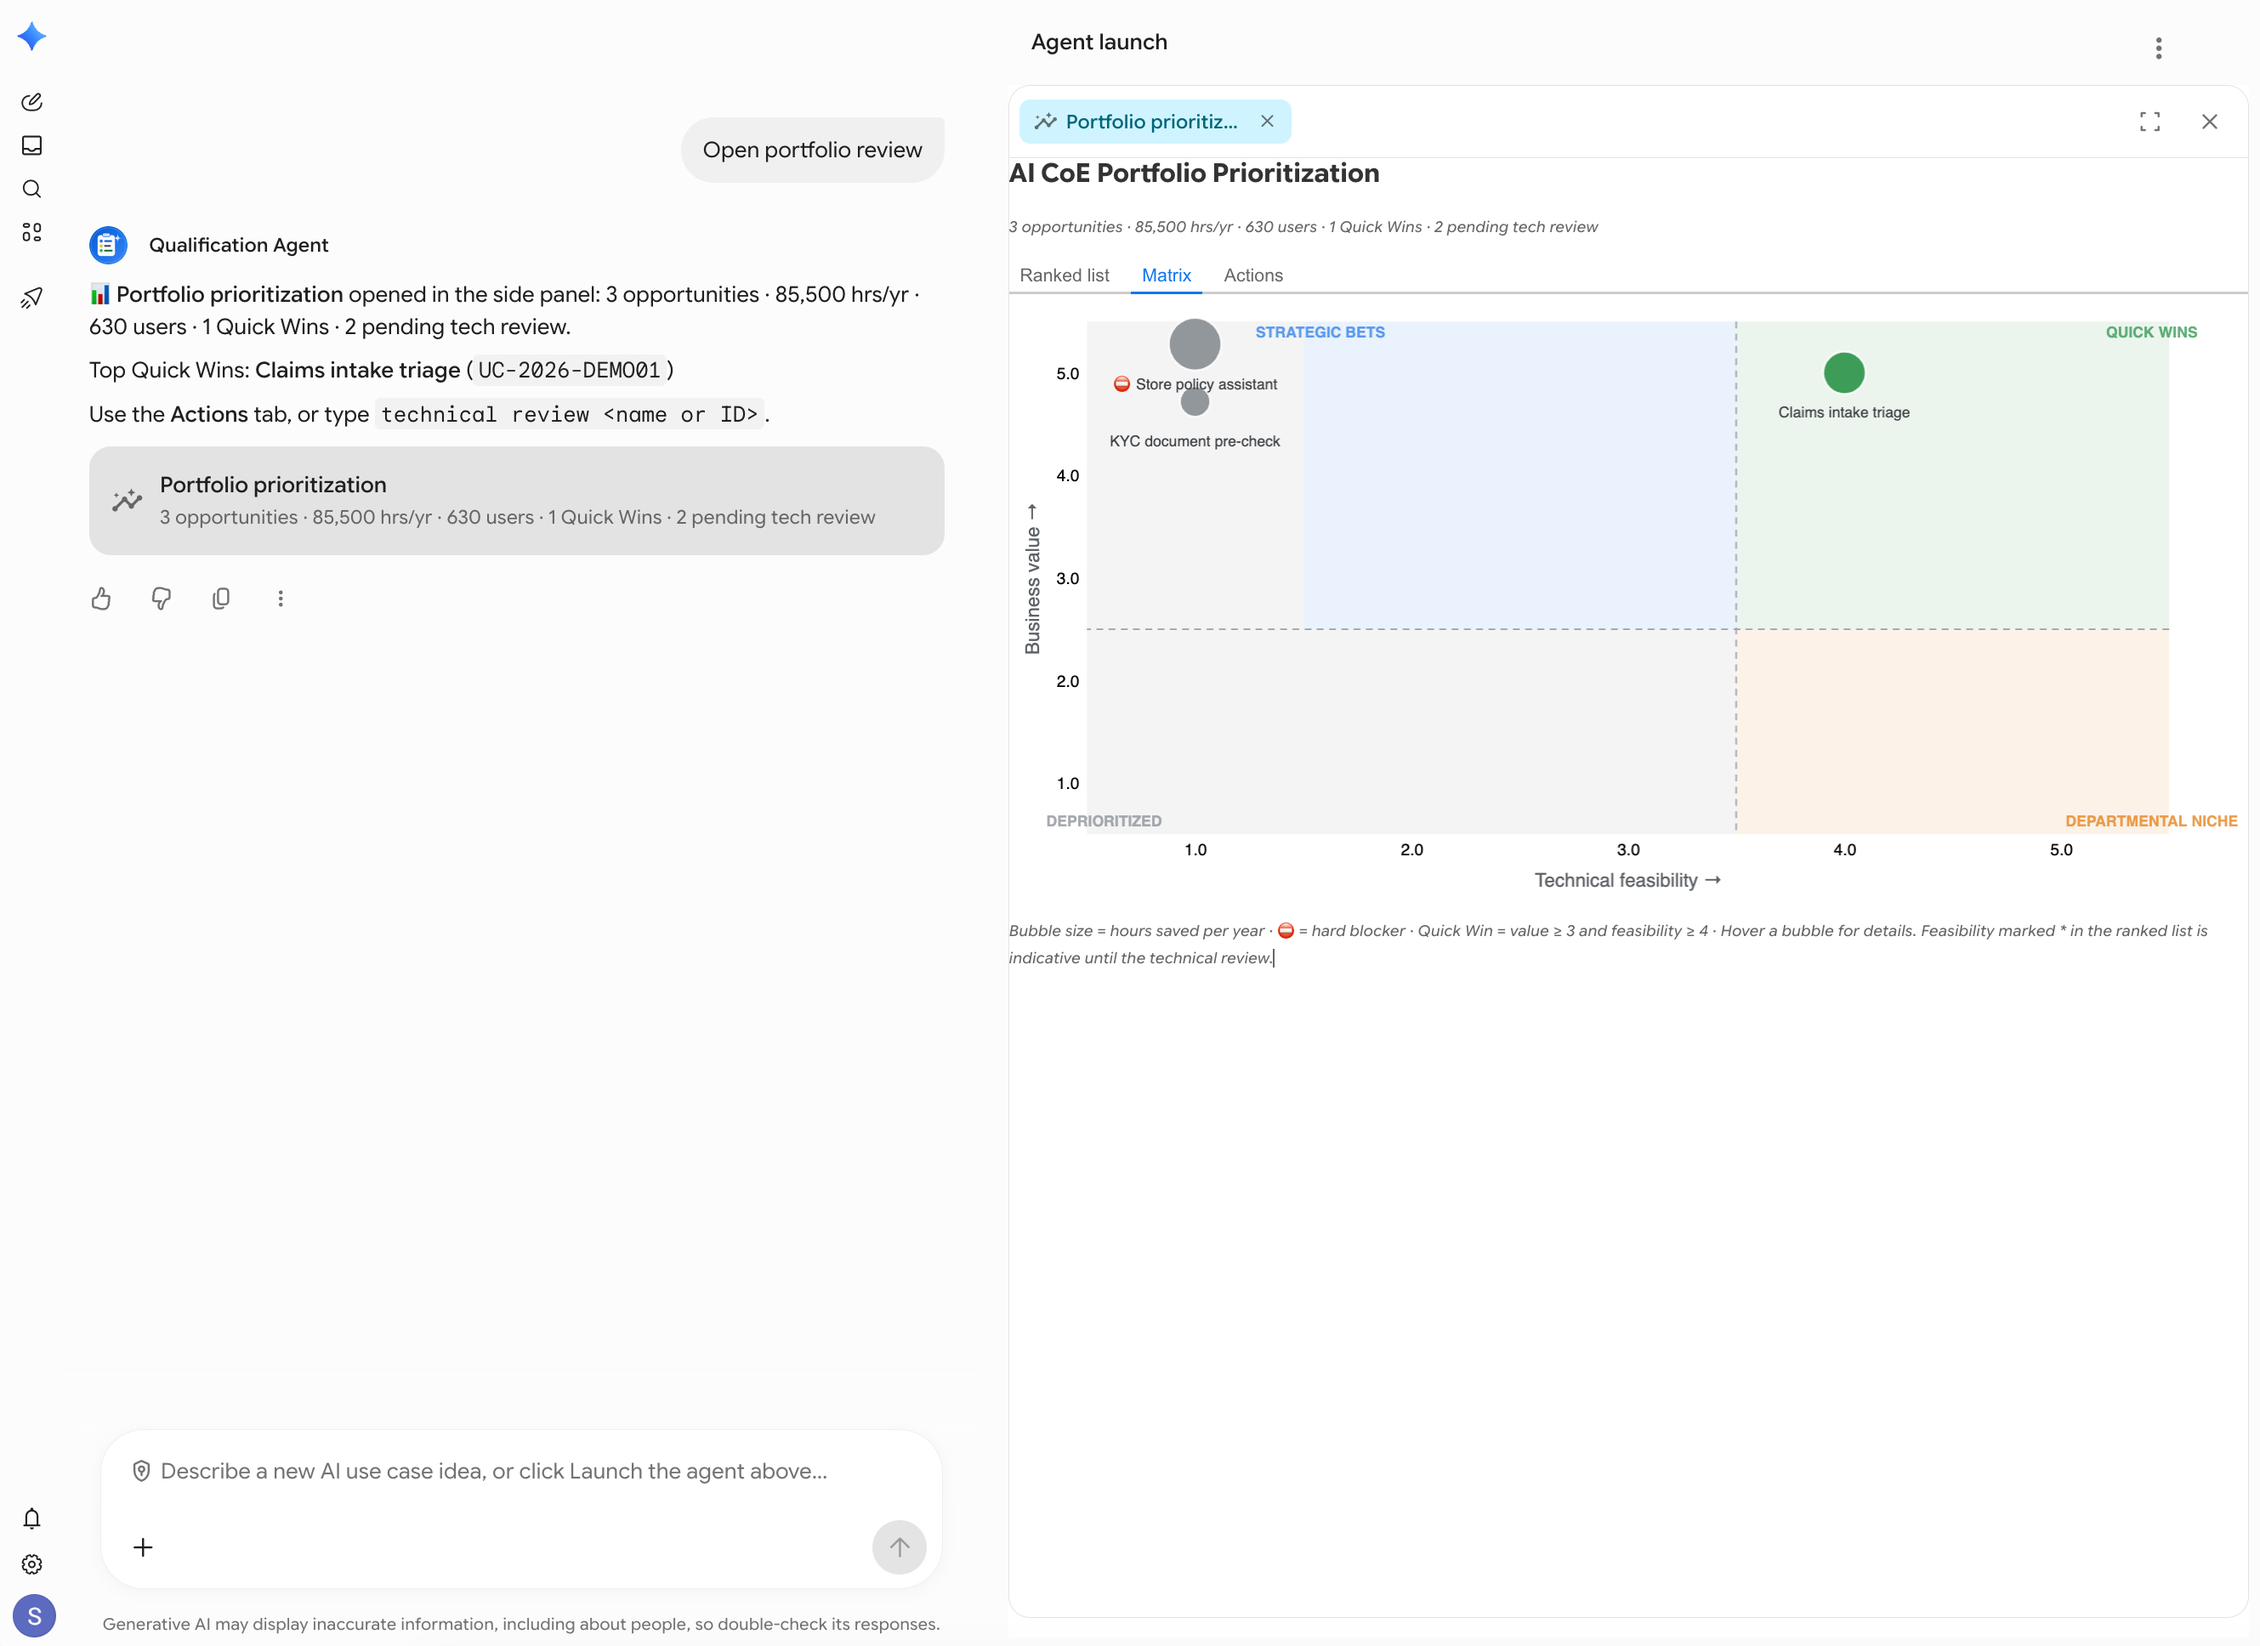
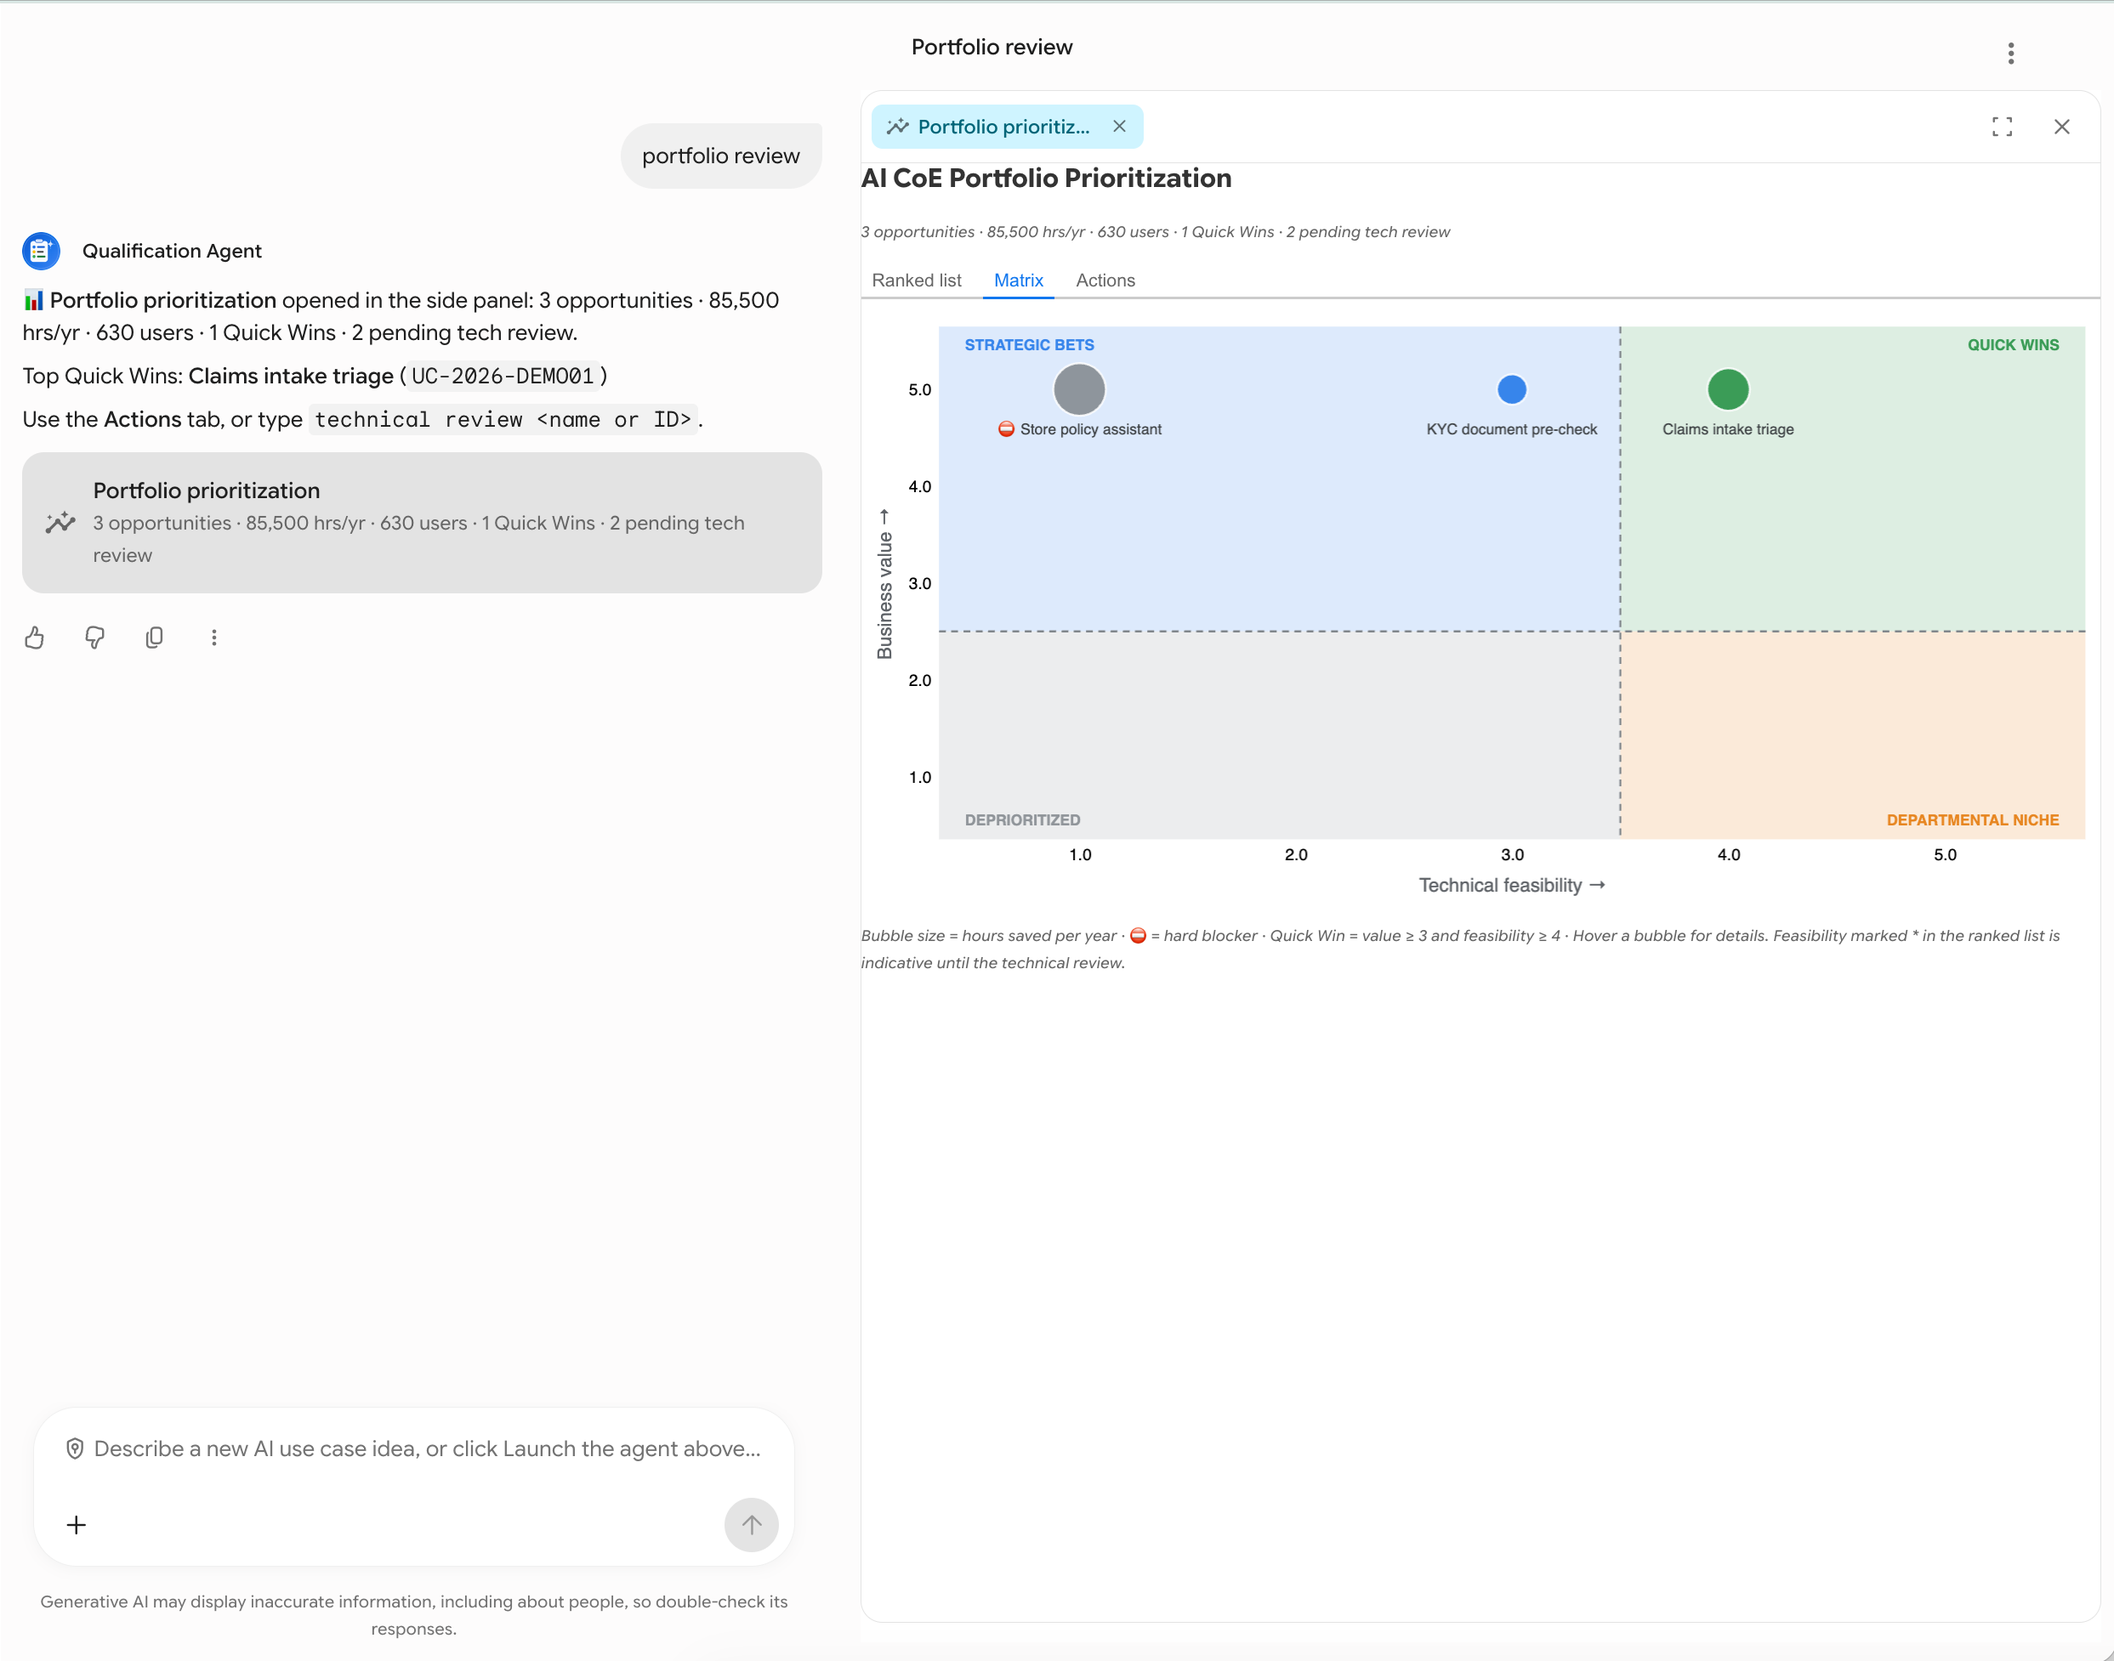
fix(views): full 4-quadrant chart backgrounds and updated quadrant screenshot

diff --git a/qualify/a2ui/views/charts.py b/qualify/a2ui/views/charts.py
@@ -4,11 +4,10 @@ The quadrant matrix is the visual centre of the demo: business value on y,
 feasibility on x, bubble size for hours saved, colour for quadrant.
 
 Scores are integers 1–5. The quadrant boundaries from
-``scoring.portfolio._assign_quadrant`` (value >= 3, feasibility >= 4, and
-feasibility >= 2 for a Strategic Bet) are therefore drawn *between* integers,
-at 2.5, 3.5 and 1.5. Every score cell then sits wholly inside one shaded
-region, and points spread within a cell can never cross a boundary — which
-an earlier version, with the lines on 3 and 4, did.
+``scoring.portfolio._assign_quadrant`` (value >= 3, feasibility >= 4) are
+drawn *between* integers, at 2.5 and 3.5. Every score cell then sits wholly
+inside one of the four shaded quadrant regions, and points spread within a
+cell can never cross a boundary.
 """
 
 from __future__ import annotations
@@ -42,10 +41,10 @@ QUADRANT_COLOURS = {
 CHART_WIDTH = 600
 CHART_HEIGHT = 420
 
-_LO, _HI = 0.5, 5.5
+_LO, _HI = 0.35, 5.65
 #: Largest offset from the cell centre. Below 0.5, so a spread point stays in
-#: its cell and therefore in its quadrant.
-_SPREAD = 0.28
+#: its cell and therefore in its quadrant, while leaving headroom below _HI.
+_SPREAD = 0.24
 _NAME_MAX = 24
 
 
@@ -111,9 +110,8 @@ def quadrant_regions() -> list[dict[str, Any]]:
     """The four quadrants as rectangles, matching ``_assign_quadrant``."""
     return [
         _region(FEASIBILITY_LINE, _HI, VALUE_LINE, _HI, "Quick Wins"),
-        _region(STRATEGIC_LINE, FEASIBILITY_LINE, VALUE_LINE, _HI, "Strategic Bets"),
+        _region(_LO, FEASIBILITY_LINE, VALUE_LINE, _HI, "Strategic Bets"),
         _region(FEASIBILITY_LINE, _HI, _LO, VALUE_LINE, "Departmental Niche"),
-        _region(_LO, STRATEGIC_LINE, VALUE_LINE, _HI, "Deprioritized"),
         _region(_LO, FEASIBILITY_LINE, _LO, VALUE_LINE, "Deprioritized"),
     ]
 
@@ -134,10 +132,10 @@ def quadrant_matrix_spec(
     ``portfolio.build_portfolio_view``), so it draws once the panel is open.
     """
     region_labels = [
-        {"x": _HI - 0.08, "y": _HI - 0.12, "label": "QUICK WINS", "quadrant": "Quick Wins", "align": "right"},
-        {"x": STRATEGIC_LINE + 0.08, "y": _HI - 0.12, "label": "STRATEGIC BETS", "quadrant": "Strategic Bets", "align": "left"},
-        {"x": _HI - 0.08, "y": _LO + 0.12, "label": "DEPARTMENTAL NICHE", "quadrant": "Departmental Niche", "align": "right"},
-        {"x": _LO + 0.08, "y": _LO + 0.12, "label": "DEPRIORITIZED", "quadrant": "Deprioritized", "align": "left"},
+        {"x": _HI - 0.12, "y": _HI - 0.12, "label": "QUICK WINS", "quadrant": "Quick Wins", "align": "right", "baseline": "top"},
+        {"x": _LO + 0.12, "y": _HI - 0.12, "label": "STRATEGIC BETS", "quadrant": "Strategic Bets", "align": "left", "baseline": "top"},
+        {"x": _HI - 0.12, "y": _LO + 0.12, "label": "DEPARTMENTAL NICHE", "quadrant": "Departmental Niche", "align": "right", "baseline": "bottom"},
+        {"x": _LO + 0.12, "y": _LO + 0.12, "label": "DEPRIORITIZED", "quadrant": "Deprioritized", "align": "left", "baseline": "bottom"},
     ]
     colour = {
         "field": "quadrant",
@@ -171,7 +169,7 @@ def quadrant_matrix_spec(
         "height": height,
         "autosize": {"type": "fit", "contains": "padding"},
         "config": {
-            "view": {"stroke": None},
+            "view": {"stroke": "#dadce0", "strokeWidth": 1},
             "axis": {"labelFontSize": 12, "titleFontSize": 13, "titleFontWeight": "normal", "titleColor": "#5f6368"},
             "legend": {"orient": "bottom", "direction": "horizontal", "labelFontSize": 12, "symbolSize": 140},
         },
@@ -179,7 +177,7 @@ def quadrant_matrix_spec(
             # Shaded quadrants.
             {
                 "data": {"values": quadrant_regions()},
-                "mark": {"type": "rect", "opacity": 0.09},
+                "mark": {"type": "rect", "opacity": 0.15},
                 "encoding": {
                     "x": x_axis,
                     "x2": {"field": "x2"},
@@ -191,24 +189,30 @@ def quadrant_matrix_spec(
             # Quadrant names in their corners, tinted like the quadrant.
             {
                 "data": {"values": region_labels},
-                "mark": {"type": "text", "fontSize": 11, "fontWeight": "bold", "opacity": 0.7, "baseline": "middle"},
+                "mark": {
+                    "type": "text",
+                    "fontSize": 11,
+                    "fontWeight": "bold",
+                    "opacity": 0.85,
+                    "align": {"expr": "datum.align"},
+                    "baseline": {"expr": "datum.baseline"},
+                },
                 "encoding": {
                     "x": plain_x,
                     "y": plain_y,
                     "text": {"field": "label"},
-                    "align": {"field": "align"},
                     "color": {**colour, "legend": None},
                 },
             },
             # Boundaries.
             {
                 "data": {"values": [{"x": FEASIBILITY_LINE}]},
-                "mark": {"type": "rule", "strokeDash": [5, 4], "color": "#9aa0a6"},
+                "mark": {"type": "rule", "strokeDash": [5, 4], "strokeWidth": 1.5, "color": "#80868b"},
                 "encoding": {"x": plain_x},
             },
             {
                 "data": {"values": [{"y": VALUE_LINE}]},
-                "mark": {"type": "rule", "strokeDash": [5, 4], "color": "#9aa0a6"},
+                "mark": {"type": "rule", "strokeDash": [5, 4], "strokeWidth": 1.5, "color": "#80868b"},
                 "encoding": {"y": plain_y},
             },
             # Bubbles. Index 4: tests and views read the points from here.

diff --git a/tests/test_views.py b/tests/test_views.py
@@ -142,8 +142,22 @@ def test_drawn_regions_match_the_scoring_for_every_cell(feas: int, value: int) -
     """The shading must say what the scoring says, for every score pair."""
     assert _region_at(feas, value) == _assign_quadrant(value, feas, False)
     # And for the furthest a spread point can sit from the cell centre.
-    for dx, dy in ((0.28, 0.28), (-0.28, -0.28), (0.28, -0.28), (-0.28, 0.28)):
+    for dx, dy in ((0.24, 0.24), (-0.24, -0.24), (0.24, -0.24), (-0.24, 0.24)):
         assert _region_at(feas + dx, value + dy) == _assign_quadrant(value, feas, False)
+
+
+def test_four_quadrant_backgrounds_cover_full_quadrants() -> None:
+    regions = {r["quadrant"]: r for r in quadrant_regions()}
+    assert len(quadrant_regions()) == 4
+    assert set(regions) == {"Quick Wins", "Strategic Bets", "Departmental Niche", "Deprioritized"}
+    # Strategic Bets (top-left quadrant) spans the full left half, matching Deprioritized.
+    assert regions["Strategic Bets"]["x"] == regions["Deprioritized"]["x"]
+    assert regions["Strategic Bets"]["x2"] == regions["Deprioritized"]["x2"]
+    spec = quadrant_matrix_spec([])
+    assert spec["layer"][0]["mark"]["opacity"] >= 0.15
+    label_mark = spec["layer"][1]["mark"]
+    assert label_mark["align"] == {"expr": "datum.align"}
+    assert label_mark["baseline"] == {"expr": "datum.baseline"}
 
 
 def test_blocked_points_are_labelled() -> None:

diff --git a/qualify/scoring/portfolio.py b/qualify/scoring/portfolio.py
@@ -256,9 +256,9 @@ def _assign_quadrant(
         return "Deprioritized"
     if value_score >= 3 and feasibility_score >= 4:
         return "Quick Wins"
-    if value_score >= 3 and feasibility_score >= 2:
+    if value_score >= 3:
         return "Strategic Bets"
-    if value_score < 3 and feasibility_score >= 4:
+    if feasibility_score >= 4:
         return "Departmental Niche"
     return "Deprioritized"
 
